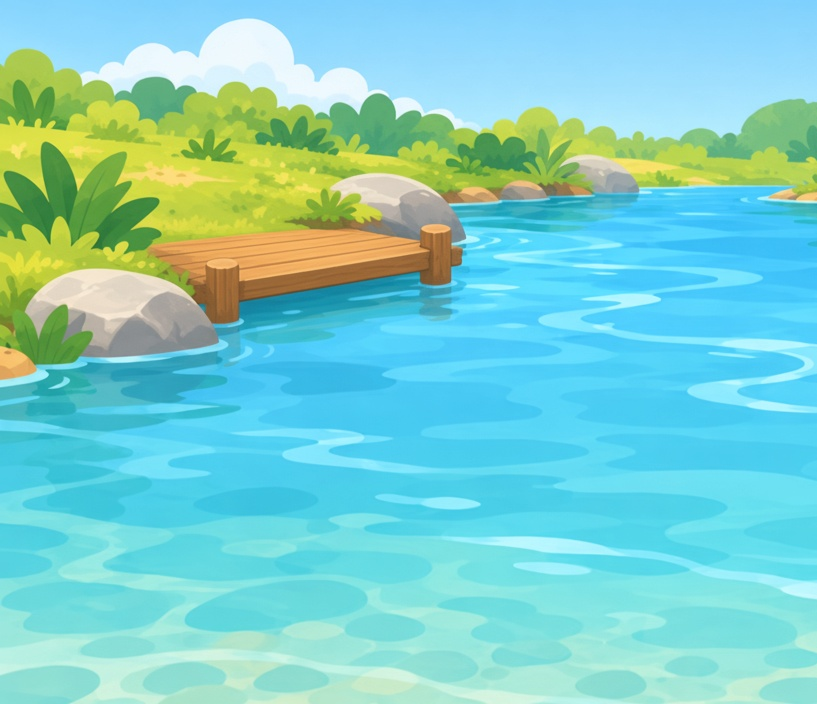
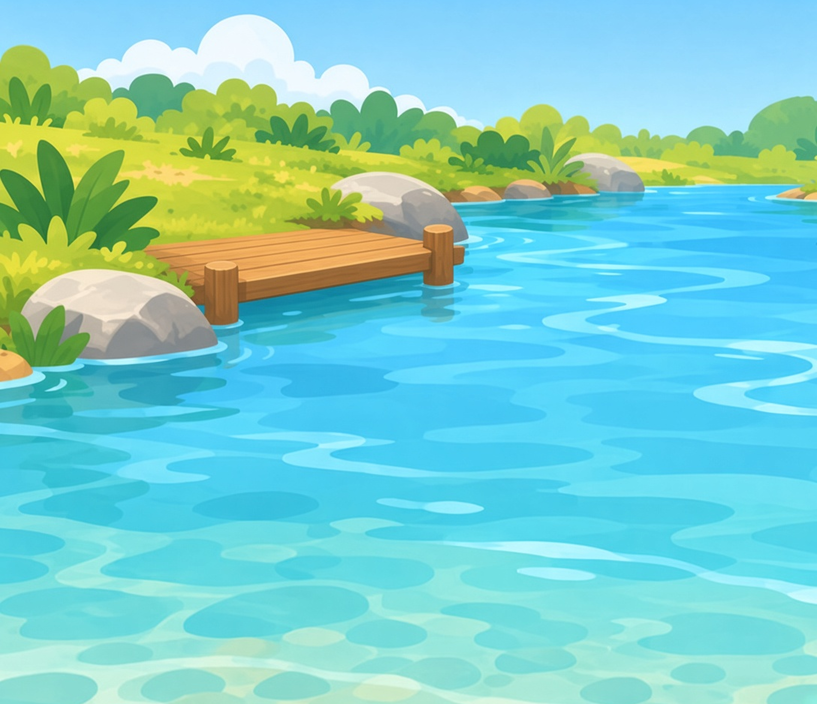
feat(fishing): 加长甲板并改成小胶囊工具条
按用户反馈把左岸木甲板向右延长约 1.5 倍，小猪上移并落在甲板上；底部工具改成 B 方案的三个小胶囊（小河/竹竿/自动），保留打开设置卡和选中态。

diff --git a/src/client/css-fishing.js b/src/client/css-fishing.js
@@ -20,7 +20,7 @@ export const CSS_FISHING = `
 .dp-fish-scene-bottom{position:absolute;z-index:3;right:9px;bottom:8px;display:flex;align-items:center;justify-content:flex-end;gap:4px;flex-wrap:wrap}
 .dp-fish-scene-pill{padding:3px 8px;border-radius:999px;background:rgba(255,250,240,.94);box-shadow:0 1px 3px rgba(61,52,40,.12);color:#5e6f4f;font-size:9px;font-weight:800;line-height:1.4}
 .dp-fish-scene-warn{background:#ffe4b8;color:#8f5123}
-.dp-fish-mascot{position:absolute;z-index:2;left:27.6%;top:22%;width:27.7%;aspect-ratio:222/130;overflow:hidden;pointer-events:none;transform:scaleX(-1);filter:drop-shadow(0 2px 2px rgba(61,52,40,.18))}
+.dp-fish-mascot{position:absolute;z-index:2;left:25%;top:21.5%;width:27.7%;aspect-ratio:222/130;overflow:hidden;pointer-events:none;transform:scaleX(-1);filter:drop-shadow(0 2px 2px rgba(61,52,40,.18))}
 .dp-fish-mascot-img{display:block;width:100%;height:100%}
 
 .dp-fish-dock{position:relative;z-index:2;margin:6px 0 0;padding:6px 9px 7px;border:2px solid var(--ac-border-light);border-radius:20px;background:var(--ac-bg-content)}
@@ -46,14 +46,13 @@ export const CSS_FISHING = `
 .dp-fish-cast:hover:not(:disabled),.dp-fish-keep:hover:not(:disabled){background:var(--ac-primary-hover);transform:translateY(-1px);box-shadow:0 5px 0 var(--ac-primary-active)}
 .dp-fish-cast:active:not(:disabled),.dp-fish-keep:active:not(:disabled){transform:translateY(2px);box-shadow:0 1px 0 var(--ac-primary-active)}
 .dp-fish-cast:disabled{background:var(--ac-bg-disabled);color:var(--ac-text-disabled);border-color:var(--ac-border-light);box-shadow:none;cursor:not-allowed}
-.dp-fish-gear{display:flex;justify-content:center;gap:30px;margin:6px 0 0}
-.dp-fish-gear-btn{display:flex;flex:0 0 auto;flex-direction:column;align-items:center;gap:3px;padding:2px 0;border:0;background:none;color:var(--ac-text-2);font:inherit;cursor:pointer}
-.dp-fish-gear-icon{display:grid;place-items:center;width:32px;height:32px;border:2px solid var(--ac-border-light);border-radius:50%;background:var(--ac-bg-content);font-size:16px;line-height:1;transition:border-color .15s var(--ac-ease),background .15s var(--ac-ease),transform .15s var(--ac-ease),box-shadow .15s var(--ac-ease)}
-.dp-fish-gear-label{font-size:8.5px;font-weight:700;line-height:1.2}
-.dp-fish-gear-btn[aria-pressed=true]{color:var(--ac-text)}
-.dp-fish-gear-btn[aria-pressed=true] .dp-fish-gear-icon{border-color:var(--ac-primary);background:var(--ac-primary-bg);box-shadow:inset 0 0 0 1px var(--ac-primary),0 2px 0 var(--ac-primary)}
-.dp-fish-gear-btn:hover .dp-fish-gear-icon{border-color:var(--ac-border-hover);transform:translateY(-1px)}
-.dp-fish-gear-btn:focus-visible{outline:2px solid var(--ac-primary);outline-offset:2px;border-radius:12px}
+.dp-fish-gear{display:flex;align-items:center;justify-content:center;gap:8px;margin:6px 0 0}
+.dp-fish-gear-btn{display:inline-flex;align-items:center;gap:4px;min-height:28px;padding:0 10px;border:2px solid var(--ac-border-light);border-radius:999px;background:var(--ac-bg-content);color:var(--ac-text-body);font:inherit;font-size:9.5px;font-weight:700;line-height:1;cursor:pointer;transition:border-color .15s var(--ac-ease),background .15s var(--ac-ease),box-shadow .15s var(--ac-ease)}
+.dp-fish-gear-icon{display:inline-block;font-size:13px;line-height:1}
+.dp-fish-gear-value{white-space:nowrap}
+.dp-fish-gear-btn[aria-pressed=true]{background:var(--ac-primary-bg);border-color:var(--ac-primary);color:var(--ac-text);box-shadow:0 2px 0 var(--ac-primary)}
+.dp-fish-gear-btn:hover{border-color:var(--ac-border-hover)}
+.dp-fish-gear-btn:focus-visible{outline:2px solid var(--ac-primary);outline-offset:2px}
 .dp-fish-gear-panel{margin:8px 0 0;padding:9px 10px 10px;border:2px solid var(--ac-border-light);border-radius:18px;background:var(--ac-bg-content);animation:dp-fish-rise .18s var(--ac-ease)}
 @keyframes dp-fish-rise{from{opacity:0;transform:translateY(4px)}to{opacity:1;transform:none}}
 .dp-fish-gear-head{display:flex;align-items:center;justify-content:space-between;gap:8px;margin:0 1px 7px}
@@ -145,6 +144,6 @@ export const CSS_FISHING = `
 .dp-fish-stars{font-size:17px;letter-spacing:3px;color:#e8b400}
 .dp-fish-facts{font-size:12px;font-weight:700;color:var(--ac-text-body)}
 .dp-fish-away{display:flex;align-items:center;justify-content:center;padding:18px 0 8px;border:2px solid var(--ac-border-light);border-radius:18px;background:var(--ac-bg-content);font-size:58px;line-height:1;margin-bottom:8px}
-@container fishing (max-width:235px){.dp-fish-gear{gap:20px}.dp-fish-scene{height:200px}.dp-fish-bait{width:44px}.dp-fish-bait em{font-size:20px}.dp-fish-gear-icon{width:30px;height:30px;font-size:15px}.dp-fish-spots{grid-template-columns:minmax(0,1fr)}.dp-fish-cast{min-height:30px;min-width:104px;padding:0 14px;font-size:12px}.dp-fish-keep{min-height:34px;font-size:13px}}
-@media (prefers-reduced-motion:reduce){.dp-fish-bobber,.dp-fish-waiting[data-bite=true] .dp-fish-bobber,.dp-fish-waiting[data-nibble=true] .dp-fish-bobber,.dp-fish-gear-panel{animation:none!important}.dp-fish-chev,.dp-fish-cast,.dp-fish-keep,.dp-fish-bait,.dp-fish-gear-icon{transition:none!important}}
+@container fishing (max-width:235px){.dp-fish-gear{gap:6px}.dp-fish-scene{height:200px}.dp-fish-bait{width:44px}.dp-fish-bait em{font-size:20px}.dp-fish-gear-btn{min-height:26px;padding:0 8px;font-size:9px}.dp-fish-gear-icon{font-size:12px}.dp-fish-spots{grid-template-columns:minmax(0,1fr)}.dp-fish-cast{min-height:30px;min-width:104px;padding:0 14px;font-size:12px}.dp-fish-keep{min-height:34px;font-size:13px}}
+@media (prefers-reduced-motion:reduce){.dp-fish-bobber,.dp-fish-waiting[data-bite=true] .dp-fish-bobber,.dp-fish-waiting[data-nibble=true] .dp-fish-bobber,.dp-fish-gear-panel{animation:none!important}.dp-fish-chev,.dp-fish-cast,.dp-fish-keep,.dp-fish-bait,.dp-fish-gear-btn{transition:none!important}}
 `

diff --git a/src/client/tabs/fishing-ready.js b/src/client/tabs/fishing-ready.js
@@ -217,7 +217,7 @@ function renderAutoPanel(ui, baitState) {
   return body
 }
 
-function gearButton(ui, key, emoji, label) {
+function gearButton(ui, key, emoji, value, label) {
   const active = openGear === key
   const btn = button('dp-fish-gear-btn', {
     'data-fish-gear': key,
@@ -237,7 +237,7 @@ function gearButton(ui, key, emoji, label) {
     }
   })
   btn.appendChild(el('span', 'dp-fish-gear-icon', emoji))
-  btn.appendChild(el('span', 'dp-fish-gear-label', label))
+  btn.appendChild(el('span', 'dp-fish-gear-value', value))
   return btn
 }
 
@@ -264,10 +264,12 @@ function gearPanel(ui, key, baitState) {
 }
 
 function renderGear(ui, baitState) {
+  const fishing = ui.view.fishing
+  const spot = currentSpot(ui)
   const row = el('div', 'dp-fish-gear')
-  row.appendChild(gearButton(ui, 'spot', '📍', '钓点'))
-  row.appendChild(gearButton(ui, 'rod', '🎣', '鱼竿'))
-  row.appendChild(gearButton(ui, 'auto', '🐷', '自动'))
+  row.appendChild(gearButton(ui, 'spot', '📍', spot.label, '钓点，' + spot.label))
+  row.appendChild(gearButton(ui, 'rod', '🎣', fishing.rod.label, '鱼竿，' + fishing.rod.label))
+  row.appendChild(gearButton(ui, 'auto', '🐷', '自动', '自动钓鱼'))
   ui.content.appendChild(row)
   if (openGear !== null) ui.content.appendChild(gearPanel(ui, openGear, baitState))
 }

diff --git a/test/unit/client/fishing-client.test.js b/test/unit/client/fishing-client.test.js
@@ -222,7 +222,7 @@ test('U24-7 ready layout: scenic hero, bait counts, collapsed gear entries and t
   assert.match(content.allText(), /小河/)
   assert.notEqual(findByAttr(content, 'data-fish-scene', 'river'), undefined)
   assert.notEqual(findByClass(content, 'dp-fish-hero-art'), undefined)
-  assert.equal(findByClass(content, 'dp-fish-art-img').src, '/dsh-piggy/art/fishing/scene-river-deck.png?v=8cd7bc01444b')
+  assert.equal(findByClass(content, 'dp-fish-art-img').src, '/dsh-piggy/art/fishing/scene-river-deck.png?v=d0e7c09cf039')
   assert.notEqual(findByClass(content, 'dp-fish-mascot'), undefined)
   assert.equal(findByClass(content, 'dp-fish-mascot-img').src, '/dsh-piggy/art/fishing/deck-pig.png?v=472e9a6bf626')
   const worm = findByAttr(content, 'data-fish-bait', 'bait_worm')

diff --git a/packages/pet-core/src/data/fishing-art.js b/packages/pet-core/src/data/fishing-art.js
@@ -3,7 +3,7 @@
 /** @type {Readonly<Record<string,string>>} */
 export const FISHING_ART_HASHES = Object.freeze({
   "scene-river.png": "20bf68ad2766",
-  "scene-river-deck.png": "8cd7bc01444b",
+  "scene-river-deck.png": "d0e7c09cf039",
   "deck-pig.png": "472e9a6bf626",
   "scene-pond.png": "b35a83086d81",
   "scene-reef.png": "bb16bf30c0ec",

diff --git a/CHANGELOG.md b/CHANGELOG.md
@@ -18,7 +18,7 @@ All notable changes to `dsh-pig`. Versions follow the plugin's own
 - 番茄钟面板重做视觉：番茄红专注卡、大倒计时环、15/25/45 时长卡和今日统计；倒计时、休息、放弃和奖励逻辑不变。
 - 番茄钟新增自定义时长：支持 1–180 分钟，可直接输入或加减调整；预设 15/25/45 保留。
 - 钓鱼页重做：钓点场景卡 + 独立鱼饵卡 + 底部「钓点 / 鱼竿 / 自动」三个圆形入口；鱼饵卡和场景卡留 8px 间距，不再叠压场景；场景放大到 226px，鱼饵卡和底部入口进一步收紧；鱼饵数量只保留一个角标，抛竿按钮直接写当前鱼饵；三个入口共用一张设置卡，展开后自动滚到可见位置，收起回到原位；空鱼饵只留一个去商店入口。
-- 钓鱼页：小河场景按用户要求用 Grok 重出，左岸加入小木甲板；甲板上放从反馈图清理出的大猪（无小伴猪、无头顶气泡），抛竿按钮缩成小药丸；底部三个入口收紧。
+- 钓鱼页：小河场景按用户要求用 Grok 重出，左岸加入小木甲板；甲板上放从反馈图清理出的大猪（无小伴猪、无头顶气泡），抛竿按钮缩成小药丸；甲板向右加长避免小猪悬空，底部工具改成三个小胶囊。
 - 新增六款小猪皮肤：邮差猪、园丁猪、雨衣猪、画家猪、消防员猪、音乐家猪；每款 11 个动作。邮差猪完成快递员工作解锁，园丁猪完成园丁工作解锁，其余四款直接可用。
 
 ## [0.37.2-rc.15] — 2026-11-05 · 面板统一与 100 种鱼

diff --git a/assets/fishing/PROVENANCE.md b/assets/fishing/PROVENANCE.md
@@ -16,3 +16,7 @@
 ## 甲板小猪（2026-11-06）
 
 从 `assets/pigs/feedback/fishing.png` 裁出大猪 222×130+16+93，去掉小伴猪和头顶两个白色气泡，把原花朵位置用肤色 `#FCCDAC` 补平；只作为钓鱼页甲板叠层。源图按 Apache-2.0，见 `LICENSE-ASSETS.md`；逐字处理记录和 SHA 见 `manifest.json`。
+
+### 甲板加长（2026-11-06）
+
+用户反馈甲板不够长、猪悬空；用 Grok `image_edit` 以第一版左岸甲板场景为参考，把木甲板向右延长约 1.5 倍。生成原图 1088×944，居中裁成 1088×938（约 1.16:1）后缩到 817×704；不调色、不合成。
